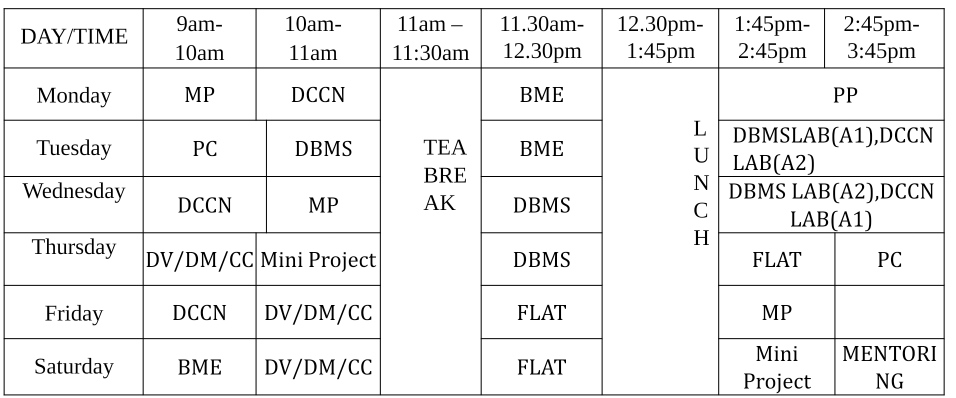
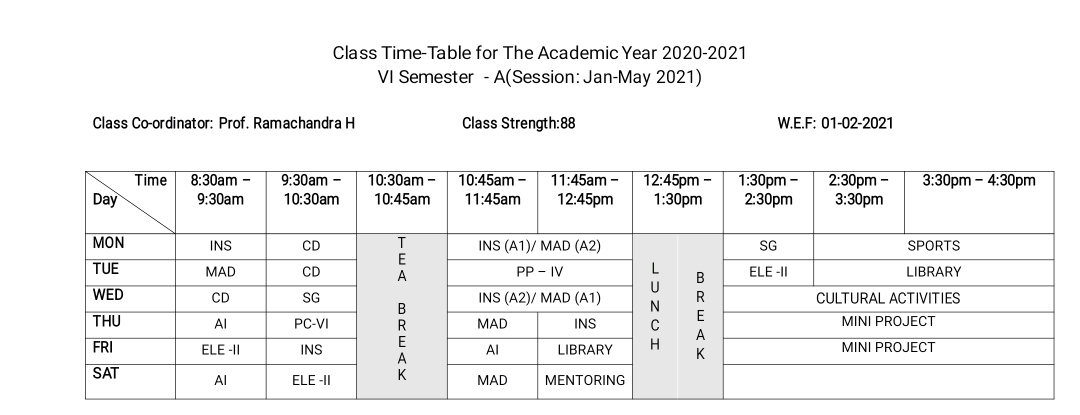
Updated from 5th sem google meet links to 6th sem

diff --git a/index.html b/index.html
@@ -5,17 +5,6 @@
 <head> 
 
     <title>CSE A Google Meet redirect</title>
-	
-	<!-- Global site tag (gtag.js) - Google Analytics -->
-<script async src="https://www.googletagmanager.com/gtag/js?id=UA-177089031-1"></script>
-<script>
-  window.dataLayer = window.dataLayer || [];
-  function gtag(){dataLayer.push(arguments);}
-  gtag('js', new Date());
-
-  gtag('config', 'UA-177089031-1');
-</script>
-
 
 </head> 
 
@@ -27,150 +16,172 @@
 	var h = date.getHours();
 	var m = date.getMinutes();
 
-    var bme = "https://meet.google.com/kky-tywa-nan"; 
-    var dccn = "https://meet.google.com/lookup/cs6s5mxtoj?authuser=0&hs=179";
-    var cc = "https://meet.google.com/lookup/bljllqex5e?authuser=1&hs=179";
-    var flat = "https://meet.google.com/lookup/ace44dadoy";
-    var mp = "https://meet.google.com/lookup/fdjm6am7dd?authuser=0&hs=179";
-    var pc = "https://meet.google.com/lookup/gbg6hjlabl";
-    var dbms = "https://meet.google.com/lookup/dmmk2ejlml?authuser=0&hs=179";
-    var pp = "https://meet.google.com/fbn-mzjs-hbm";
-    var mnp = "https://meet.google.com/lookup/eohypg753q?authuser=0&hs=179";
-    var dm = "https://meet.google.com/lookup/bml6npkx6q";
-    var dv = "https://meet.google.com/lookup/efm5egy7pe";
+    var sg = "https://meet.google.com/lookup/g6ddmr6f3r"; 
+    var ins = "https://meet.google.com/lookup/fr46lmk2mr";
+    var mad = "https://meet.google.com/lookup/ez26lwpho5";
+    var cd = "https://meet.google.com/lookup/dgrybtb7dn";
+    var ai = "https://compiledlife.github.io/home";
+    var pc = "https://meet.google.com/lookup/bwnm6pc6cdS";
+    var pp = "https://meet.google.com/xxh-aayj-ece";
     var rest = "https://compiledlife.github.io/home";
     var elec = "https://compiledlife.github.io/elec";
     var lab = "https://compiledlife.github.io/lab";
 
-    var ntt = (h>=8)&&(h<10);
-    var tte = (h == 10);
-    var etef = (h == 11 && m<30);
-    var ett = (h == 11 && m>=30)||(h == 12 && m<30);
-    var tto = (h == 12 && m>=30) || (h == 13 && m<45);
-    var ott = (h == 13 && m>=45) || (h == 14 && m<45);
-    var ttt = (h == 14 && m>=45) || (h == 15 && m<45);
-    var free = (h >= 15 && m>45) || (h < 8 || h > 15);
+    var first = (h==8)||(h == 9 && m < 30);
+    var second = (h == 9 && m>=30) || (h == 10 && m <=30);
+    var srtBrk = (h == 10 && (m>30 && m<45));
+    var third = (h == 10 && m>=45)||(h == 11 && m<45);
+    var forth = (h == 11 && m>=45) || (h == 12 && m<45);
+	var lnchBrk = (h == 12 && m>=45) || (h == 13 && m<30);
+    var fifth = (h == 13 && m>=30) || (h == 14 && m<30);
+    var sixth = (h == 14 && m>=30) || (h == 15 && m<30);
+	var seventh = (h == 15 && m>=30) || (h == 16 && m<30);
+    var free = (h >= 16 && m>35) || (h < 8 || h > 17);
 
 	if(d == 1)
 	{
-		if(ntt)
-			{window.location = mp;}
-		if(tte)
-			{window.location = dccn;}
-		if(etef)
-			{window.location = bme;}
-		if(ett)
-			{window.location = bme;}
-		if(tto)
-			{window.location = pp;}
-		if(ott)
-			{window.location = pp;}
-		if(ttt)
-			{window.location = pp;}
+		if(first)
+			{window.location = ins;}
+		if(second)
+			{window.location = cd;}
+		if(srtBrk)
+			{window.location = lab;}
+		if(third)
+			{window.location = lab;}
+		if(forth)
+			{window.location = lab;}
+		if(lnchBrk)
+			{window.location = sg;}
+		if(fifth)
+			{window.location = sg;}
+		if(sixth)
+			{window.location = rest;}
+		if(seventh)
+			{window.location = rest;}
 		if(free)
 			{window.location = rest;}
 	}
 
 	if(d == 2)
 	{
-		if(ntt)
-			{window.location = pc;}
-		if(tte)
-			{window.location = dbms;}
-		if(etef)
-			{window.location = bme;}
-		if(ett)
-			{window.location = bme;}
-		if(tto)
-			{window.location = lab;}
-		if(ott)
-			{window.location = lab;}
-		if(ttt)
-			{window.location = lab;}
+		if(first)
+			{window.location = mad;}
+		if(second)
+			{window.location = cd;}
+		if(srtBrk)
+			{window.location = pp;}
+		if(third)
+			{window.location = pp;}
+		if(forth)
+			{window.location = pp;}
+		if(lnchBrk)
+			{window.location = elec;}
+		if(fifth)
+			{window.location = elec;}
+		if(sixth)
+			{window.location = rest;}
+		if(seventh)
+			{window.location = rest;}
 		if(free)
 			{window.location = rest;}
-	}
-	
+	}	
+
 	if(d == 3)
 	{
-		if(ntt)
-			{window.location = dccn;}
-		if(tte)
-			{window.location = mp;}
-		if(etef)
-			{window.location = dbms;}
-		if(ett)
-			{window.location = dbms;}
-		if(tto)
+		if(first)
+			{window.location = cd;}
+		if(second)
+			{window.location = sg;}
+		if(srtBrk)
 			{window.location = lab;}
-		if(ott)
+		if(third)
 			{window.location = lab;}
-		if(ttt)
+		if(forth)
 			{window.location = lab;}
+		if(lnchBrk)
+			{window.location = rest;}
+		if(fifth)
+			{window.location = rest;}
+		if(sixth)
+			{window.location = rest;}
+		if(seventh)
+			{window.location = rest;}
 		if(free)
 			{window.location = rest;}
 	}
 
 	if(d == 4)
 	{
-		if(ntt)
-			{window.location = elec;}
-		if(tte)
-			{window.location = mnp;}
-		if(etef)
-			{window.location = dbms;}
-		if(ett)
-			{window.location = dbms;}
-		if(tto)
-			{window.location = flat;}
-		if(ott)
-			{window.location = flat;}
-		if(ttt)
+		if(first)
+			{window.location = ai;}
+		if(second)
 			{window.location = pc;}
+		if(srtBrk)
+			{window.location = mad;}
+		if(third)
+			{window.location = mad;}
+		if(forth)
+			{window.location = ins;}
+		if(lnchBrk)
+			{window.location = rest;}
+		if(fifth)
+			{window.location = rest;}
+		if(sixth)
+			{window.location = rest;}
+		if(seventh)
+			{window.location = rest;}
 		if(free)
 			{window.location = rest;}
-	}
+	}	
 
 	if(d == 5)
 	{
-		if(ntt)
-			{window.location = dccn;}
-		if(tte)
+		if(first)
 			{window.location = elec;}
-		if(etef)
-			{window.location = flat;}
-		if(ett)
-			{window.location = flat;}
-		if(tto)
-			{window.location = mp;}
-		if(ott)
-			{window.location = mp;}
-		if(ttt)
+		if(second)
+			{window.location = ins;}
+		if(srtBrk)
+			{window.location = ai;}
+		if(third)
+			{window.location = ai;}
+		if(forth)
+			{window.location = rest;}
+		if(lnchBrk)
+			{window.location = rest;}
+		if(fifth)
+			{window.location = rest;}
+		if(sixth)
+			{window.location = rest;}
+		if(seventh)
 			{window.location = rest;}
 		if(free)
 			{window.location = rest;}
 	}
-
+	
 	if(d == 6)
 	{
-		if(ntt)
-			{window.location = bme;}
-		if(tte)
+		if(first)
+			{window.location = ai;}
+		if(second)
 			{window.location = elec;}
-		if(etef)
-			{window.location = flat;}
-		if(ett)
-			{window.location = flat;}
-		if(tto)
-			{window.location = mnp;}
-		if(ott)
-			{window.location = mnp;}
-		if(ttt)
+		if(srtBrk)
+			{window.location = mad;}
+		if(third)
+			{window.location = mad;}
+		if(forth)
+			{window.location = rest;}
+		if(lnchBrk)
+			{window.location = rest;}
+		if(fifth)
+			{window.location = rest;}
+		if(sixth)
+			{window.location = rest;}
+		if(seventh)
 			{window.location = rest;}
 		if(free)
 			{window.location = rest;}
 	}
-
+	
 	if(d == 0)
 	{
 		window.location = rest;

diff --git a/home.html b/home.html
@@ -35,28 +35,26 @@ a:hover, a:active {
 <p></p>
 
   
-<a href="https://meet.google.com/kky-tywa-nan" target="_blank">Business Management</a>
+<a href="https://meet.google.com/lookup/dgrybtb7dn" target="_blank">Compiler Design</a>
 <p></p>
-<a href="https://meet.google.com/lookup/ace44dadoy" target="_blank">Formal Language and Automata</a>
+<a href="https://meet.google.com/lookup/fr46lmk2mr" target="_blank">Information and Network Security</a>
 <p></p>
-<a href="https://meet.google.com/lookup/fdjm6am7dd?authuser=0&hs=179" target="_blank">Microprocessors</a>
+<a href="https://meet.google.com/lookup/ez26lwpho5" target="_blank">Mobile and Application</a>
 <p></p>
-<a href="https://meet.google.com/lookup/cs6s5mxtoj?authuser=0&hs=179" target="_blank">Data Communication and Networking</a>
+<a href="https://meet.google.com/lookup/g6ddmr6f3r" target="_blank">Sociology of Globalization and sustainable development</a>
 <p></p>
-<a href="https://meet.google.com/lookup/dmmk2ejlml?authuser=0&hs=179" target="_blank">Database Management Systems</a>
+<a href="https://compiledlife.github.io/home" target="_blank">Artificial Intelligence</a>
 <p></p>
-<a href="https://meet.google.com/lookup/gbg6hjlabl" target="_blank">Professional Communication</a>
+<a href="https://meet.google.com/lookup/bwnm6pc6cdS" target="_blank">Professional Communication</a>
 <p></p>
-<a href="https://meet.google.com/fbn-mzjs-hbm" target="_blank">Prepare Program</a>
+<a href="https://meet.google.com/xxh-aayj-ece" target="_blank">Prepare Program</a>
 <p></p>
-<a href="https://meet.google.com/lookup/eohypg753q?authuser=0&hs=179" target="_blank">Mini Project</a>
+<a href="https://compiledlife.github.io/home" target="_blank">Mini Project</a>
 <p></p>
 <h2>Electives: </h2>
-<a href="https://meet.google.com/lookup/bljllqex5e?authuser=1&hs=179" target="_blank">Cloud Computing</a>
+<a href="https://meet.google.com/lookup/gnubqjde7s?authuser=0&hs=179" target="_blank">NoSQL</a>
 <p></p>
-<a href="https://meet.google.com/lookup/bml6npkx6q" target="_blank">Data Mining</a>
-<p></p>
-<a href="https://meet.google.com/lookup/efm5egy7pe" target="_blank">Data Visualization</a>
+<a href="https://meet.google.com/cyv-axvg-ntz" target="_blank">Storage Area Networks</a>
 <p></p>
 
 </body>

diff --git a/lab.html b/lab.html
@@ -22,14 +22,14 @@ a:hover, a:active {
 
 <h2>Links to Labs:</h2>
 <h4>A1:</h4>
-<a href="https://meet.google.com/lookup/dj3kt45xbn" target="_blank">A1 DBMS</a>
+<a href="https://meet.google.com/lookup/ez26lwpho5" target="_blank">A1 Mobile Application Development</a>
 <p></p>
-<a href="https://meet.google.com/lookup/cs6s5mxtoj?authuser=0&hs=179" target="_blank">A1 DCCN</a>
+<a href="https://meet.google.com/lookup/hgpug4c6aw" target="_blank">A1 Information and Network Security</a>
 <p></p>
 <h4>A2:</h4>
-<a href="https://meet.google.com/lookup/chegl2ldlu" target="_blank">A2 DBMS</a>
+<a href="https://meet.google.com/lookup/ez26lwpho5" target="_blank">A2 Mobile Application Development</a>
 <p></p>
-<a href="https://meet.google.com/lookup/cs6s5mxtoj?authuser=0&hs=179" target="_blank">A2 DCCN</a>
+<a href="http://meet.google.com/ybn-gtdf-tzs" target="_blank">A2 Information and Network Security</a>
 <p></p>
 
 </body>

diff --git a/elec.html b/elec.html
@@ -21,11 +21,9 @@ a:hover, a:active {
 <body>
 
 <h2>Links to Electives:</h2>
-<a href="https://meet.google.com/lookup/bljllqex5e?authuser=1&hs=179" target="_blank">Cloud Computing</a>
+<a href="https://meet.google.com/lookup/gnubqjde7s?authuser=0&hs=179" target="_blank">NoSQL</a>
 <p></p>
-<a href="https://meet.google.com/lookup/bml6npkx6q" target="_blank">Data Mining</a>
-<p></p>
-<a href="https://meet.google.com/lookup/efm5egy7pe" target="_blank">Data Visualization</a>
+<a href="https://meet.google.com/cyv-axvg-ntz" target="_blank">Storage Area Networks</a>
 <p></p>
 
 
